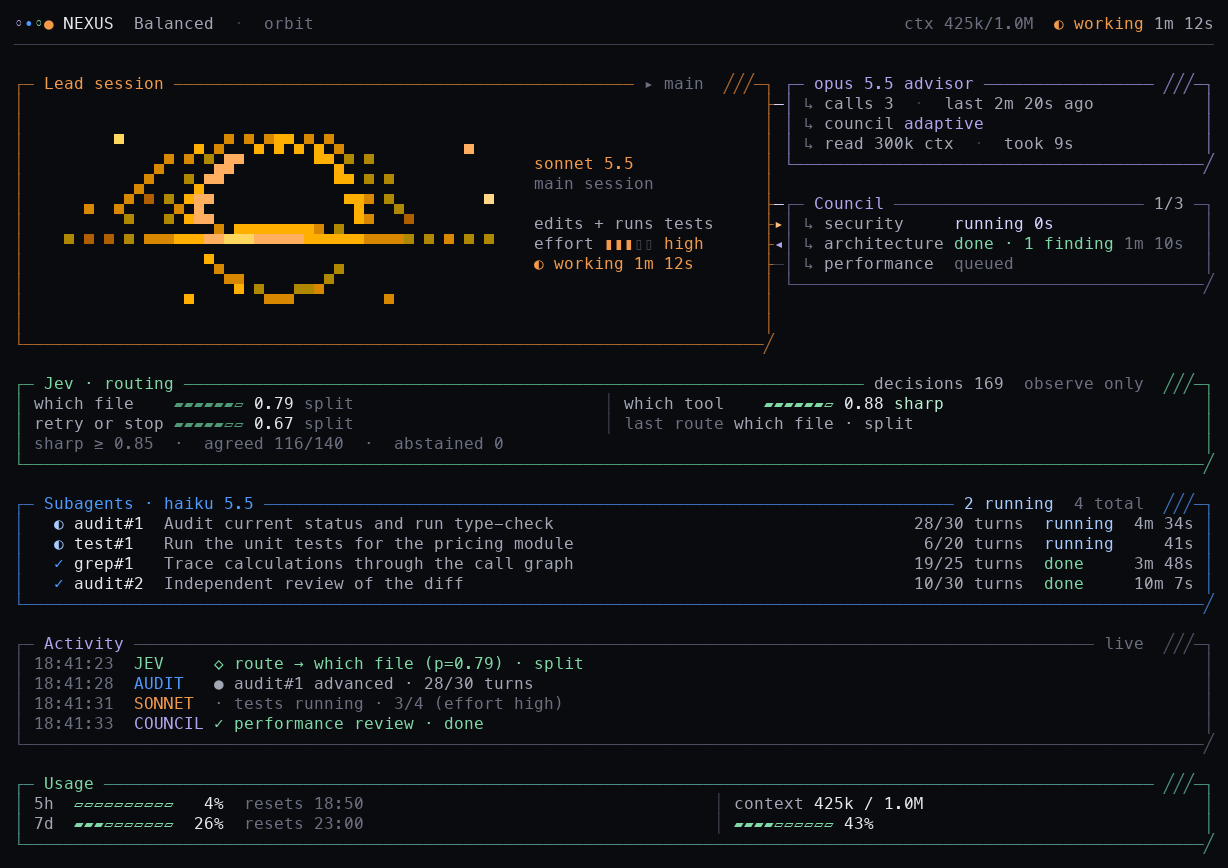
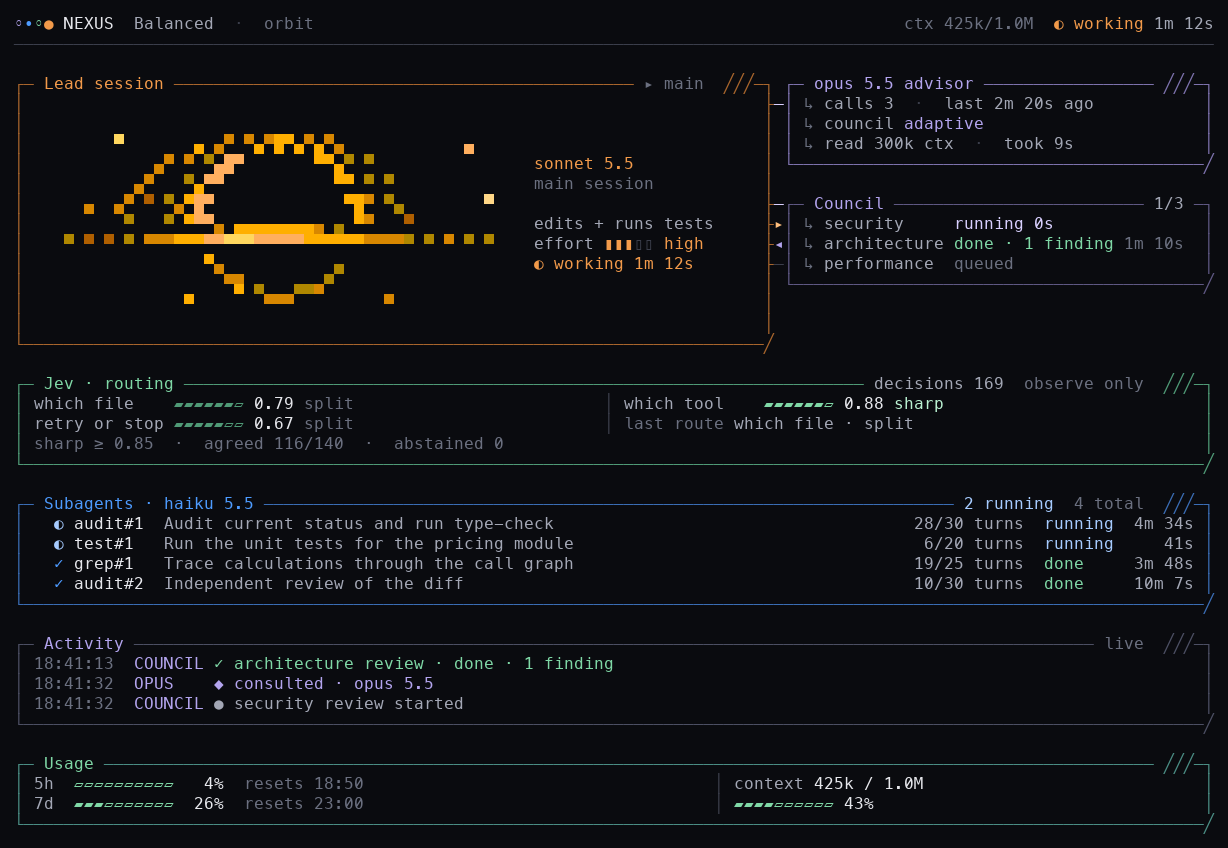
test: the Council sample screen's tape agrees with its panel

diff --git a/mod/nexus/tests/golden/flow-council-120.ts b/mod/nexus/tests/golden/flow-council-120.ts
@@ -32,10 +32,9 @@ export default [
  "└──────────────────────────────────────────────────────────────────────────────────────────────────────────────────────╱",
  "                                                                                                                        ",
  "┌─ Activity ──────────────────────────────────────────────────────────────────────────────────────────────── live  ╱╱╱─┐",
- "│ 18:41:23  JEV     ◇ route → which file (p=0.79) · split                                                              │",
- "│ 18:41:28  AUDIT   ● audit#1 advanced · 28/30 turns                                                                   │",
- "│ 18:41:31  SONNET  · tests running · 3/4 (effort high)                                                                │",
- "│ 18:41:33  COUNCIL ✓ performance review · done                                                                        │",
+ "│ 18:41:13  COUNCIL ✓ architecture review · done · 1 finding                                                           │",
+ "│ 18:41:32  OPUS    ◆ consulted · opus 5.5                                                                             │",
+ "│ 18:41:32  COUNCIL ● security review started                                                                          │",
  "└──────────────────────────────────────────────────────────────────────────────────────────────────────────────────────╱",
  "                                                                                                                        ",
  "┌─ Usage ───────────────────────────────────────────────────────────────────────────────────────────────────────── ╱╱╱─┐",

diff --git a/mod/nexus/tests/golden/flow-council-84.ts b/mod/nexus/tests/golden/flow-council-84.ts
@@ -38,10 +38,9 @@ export default [
  "└──────────────────────────────────────────────────────────────────────────────────╱",
  "                                                                                    ",
  "┌─ Activity ──────────────────────────────────────────────────────────── live  ╱╱╱─┐",
- "│ 18:41:23  JEV     ◇ route → which file (p=0.79) · split                          │",
- "│ 18:41:28  AUDIT   ● audit#1 advanced · 28/30 turns                               │",
- "│ 18:41:31  SONNET  · tests running · 3/4 (effort high)                            │",
- "│ 18:41:33  COUNCIL ✓ performance review · done                                    │",
+ "│ 18:41:13  COUNCIL ✓ architecture review · done · 1 finding                       │",
+ "│ 18:41:32  OPUS    ◆ consulted · opus 5.5                                         │",
+ "│ 18:41:32  COUNCIL ● security review started                                      │",
  "└──────────────────────────────────────────────────────────────────────────────────╱",
  "                                                                                    ",
  "┌─ Usage ───────────────────────────────────────────────────────────────────── ╱╱╱─┐",

diff --git a/mod/nexus/tests/fixtures.ts b/mod/nexus/tests/fixtures.ts
@@ -56,7 +56,13 @@ const delegating = [
 ]
 
 const councilRunning = () => {
-  const s = snap({ fx: [fx('council-out', 'security', 300), fx('advisor', null, 500, 4800)] }, links())
+  // The tape tells the same story as the panel below it: the advisor was consulted, one reviewer is done, one running, one queued.
+  const log: Snapshot['log'] = [
+    { at: NOW - 20_000, who: 'council', kind: 'done', text: 'architecture review · done · 1 finding', detail: '' },
+    { at: NOW - 500, who: 'advisor', kind: 'advisor', text: 'consulted · opus 5.5', detail: '' },
+    { at: NOW - 300, who: 'council', kind: 'start', text: 'security review started', detail: '' },
+  ]
+  const s = snap({ log, fx: [fx('council-out', 'security', 300), fx('advisor', null, 500, 4800)] }, links())
   s.council.reviewers.security = { ...s.council.reviewers.security, status: 'running', startedAt: NOW - 300, endedAt: null, findings: null }
   s.council.reviewers.architecture = { ...s.council.reviewers.architecture, status: 'done', findings: 1 }
   s.council.reviewers.performance = { ...s.council.reviewers.performance, status: 'queued', startedAt: null, endedAt: null, findings: null }
